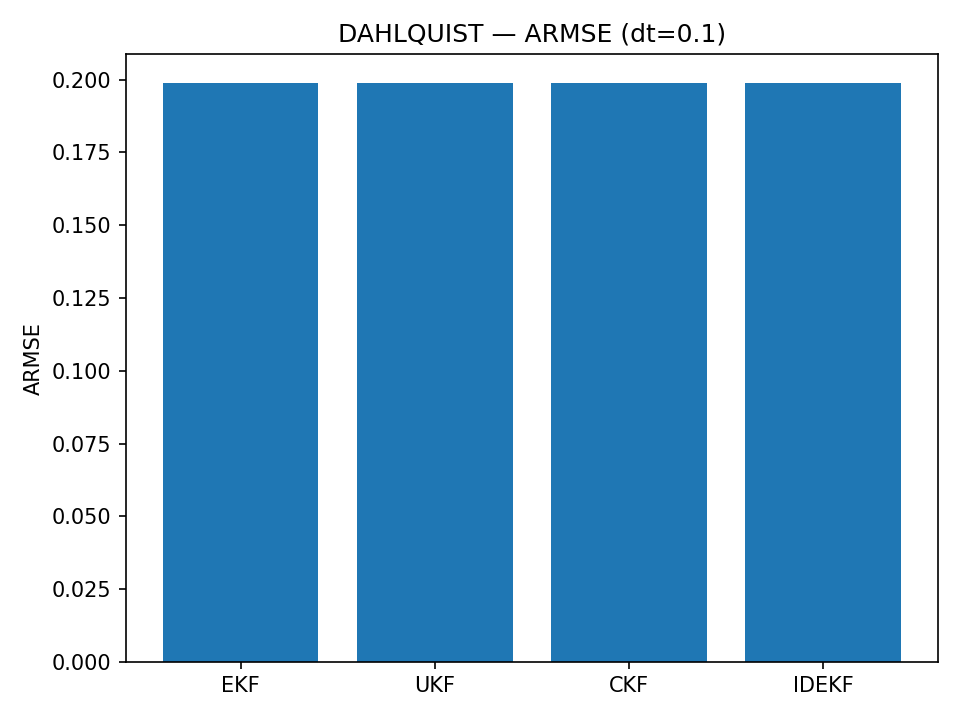
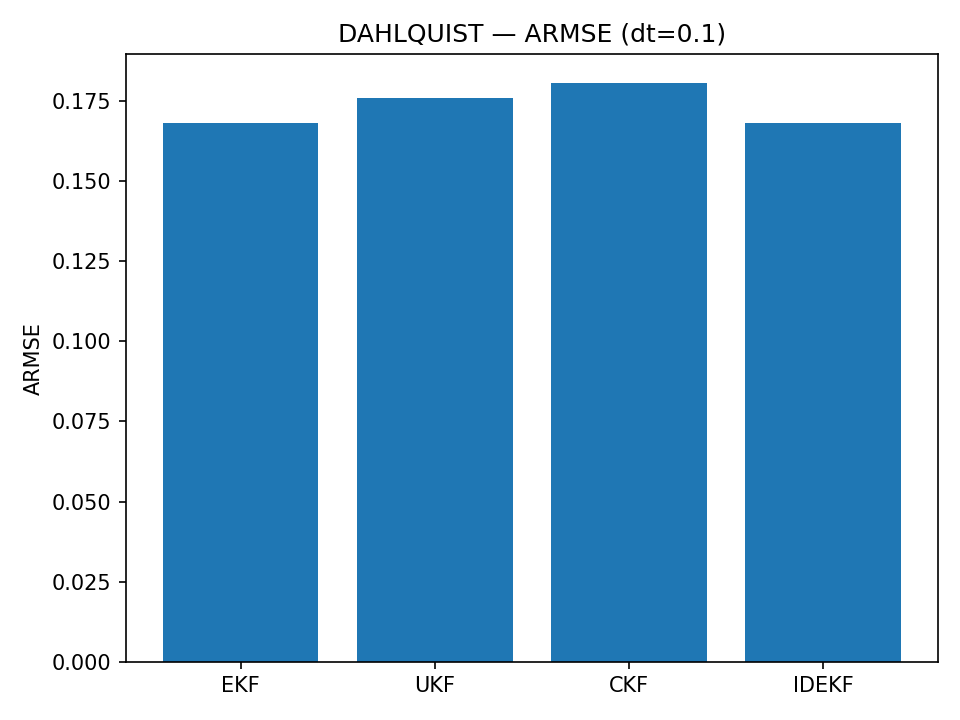
Got Dahlquist running (yay!)

diff --git a/filters.py b/filters.py
@@ -232,8 +232,9 @@ class IDEKF:
         self.u = np.asarray(self.u).reshape(-1, 1)                 # (n,1)
         self.B = np.asarray(self.B).reshape(self._n, self._n)      # (n,n)
         self.V = np.asarray(self.V).reshape(-1)                    # (n,)
-        
-        x_pred = self.u.ravel()
+
+        self.u = self.dm.g(x)
+        x_pred = self.u
         P_pred = ensure_psd(inf_to_cov(self.V, self.B, self._n))
         return x_pred, P_pred
 

diff --git a/run_armse.py b/run_armse.py
@@ -21,7 +21,7 @@ def run_once(model_name: str, dt_list, N_runs=20, seed=0):
     results = {}
     for dt in dt_list:
         if model_name == "dahlquist":
-            mu, j = -1e2, 1
+            mu, j = -1e2, 3
             f, Jf = dahlquist_f(mu, j), dahlquist_J(mu, j)
             G = np.array([[1.0]])
             x0 = np.array([1.0])
